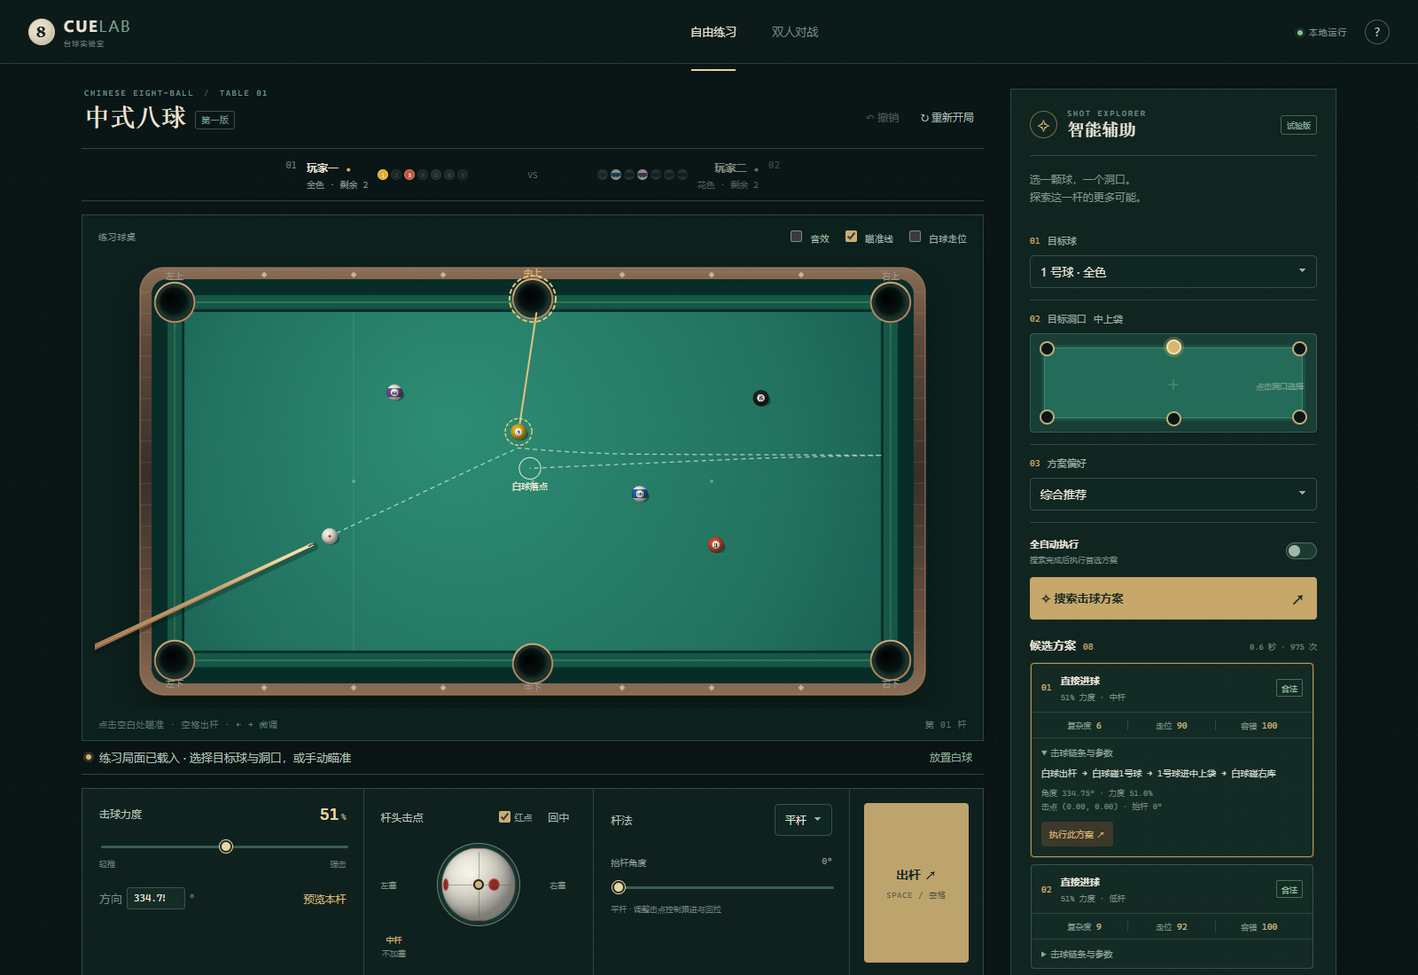
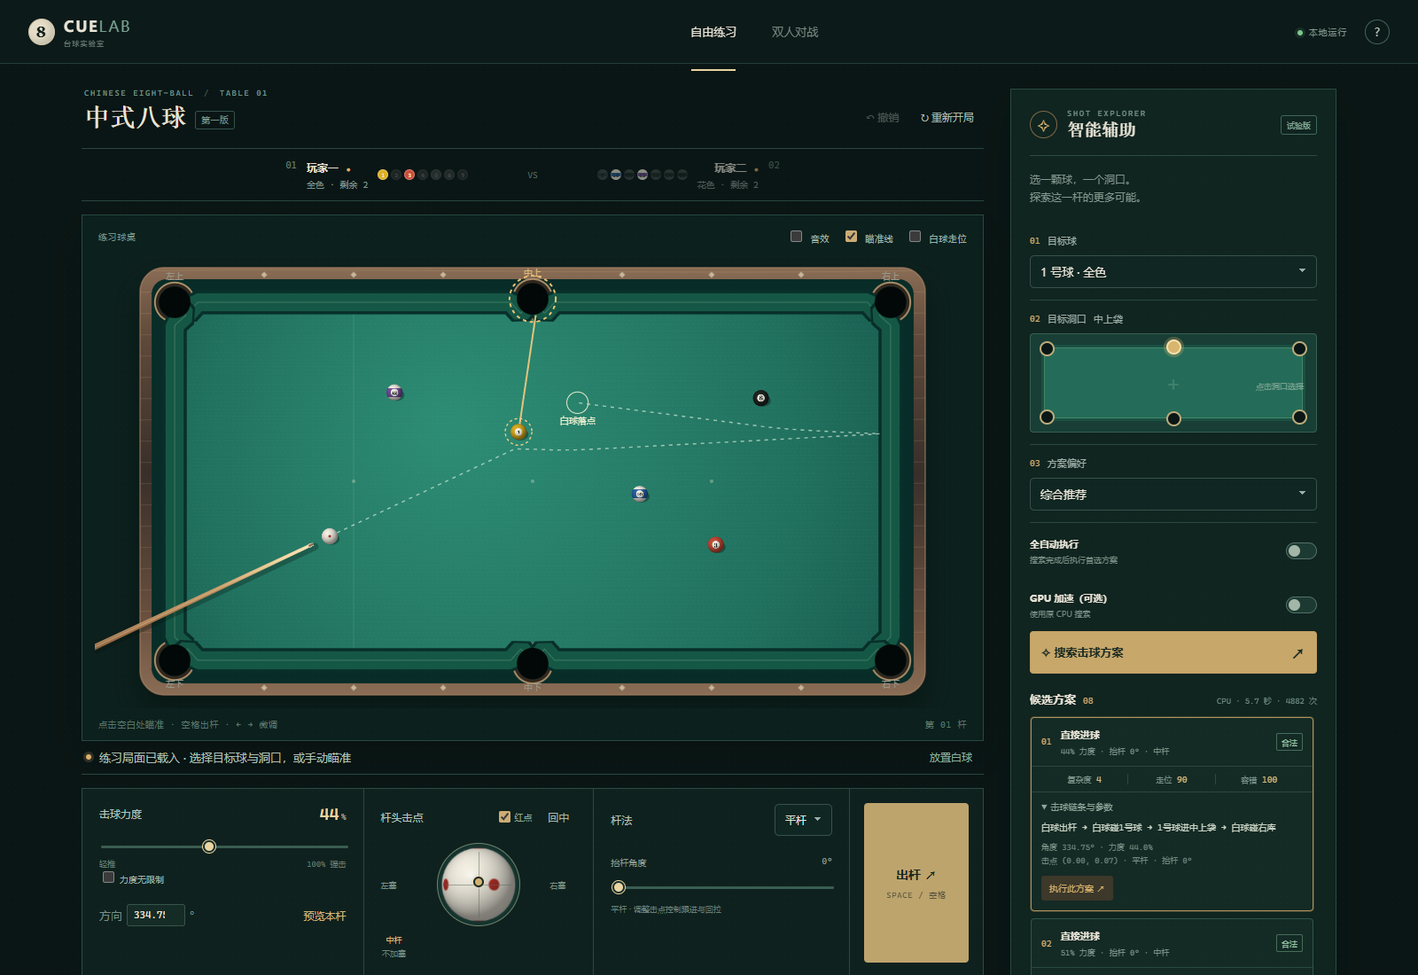
优化库边形状

diff --git a/src/search.ts b/src/search.ts
@@ -20,6 +20,7 @@ const rails = [
   { axis: 'x' as const, value: R, name: '左库' }, { axis: 'x' as const, value: TABLE.w - R, name: '右库' },
   { axis: 'y' as const, value: R, name: '上库' }, { axis: 'y' as const, value: TABLE.h - R, name: '下库' },
 ];
+type Rail = typeof rails[number];
 function reflected(p: Point, rail: typeof rails[number]): Point {
   return rail.axis === 'x' ? { x: rail.value - (p.x - rail.value) / 0.79, y: p.y } : { x: p.x, y: rail.value - (p.y - rail.value) / 0.79 };
 }
@@ -32,6 +33,51 @@ function bounce(from: Point, to: Point, rail: typeof rails[number]): Point | nul
   if (rail.axis === 'x') { if (p.y < 0.115 || p.y > TABLE.h - 0.115) return null; }
   else if (p.x < 0.115 || p.x > TABLE.w - 0.115 || Math.abs(p.x - TABLE.w / 2) < 0.105) return null;
   return p;
+}
+function twoCushionBounces(from: Point, to: Point, route: [Rail, Rail]): [Point, Point] | null {
+  const lengths = { x: TABLE.w - 2 * R, y: TABLE.h - 2 * R };
+  const start = { x: from.x - R, y: from.y - R }, end = { x: to.x - R, y: to.y - R };
+  const tiles = { x: 0, y: 0 }, directions: { x?: number; y?: number } = {};
+  for (const rail of route) {
+    const side = rail.value === R ? -1 : 1;
+    const direction = directions[rail.axis] ?? side;
+    if (directions[rail.axis] !== undefined) {
+      const increasingPhysical = (tiles[rail.axis] & 1) === 0;
+      const expectedSide = (direction > 0) === increasingPhysical ? 1 : -1;
+      if (side !== expectedSide) return null;
+    } else directions[rail.axis] = direction;
+    tiles[rail.axis] += direction;
+  }
+  const image = {
+    x: (tiles.x & 1) === 0 ? tiles.x * lengths.x + end.x : (tiles.x + 1) * lengths.x - end.x,
+    y: (tiles.y & 1) === 0 ? tiles.y * lengths.y + end.y : (tiles.y + 1) * lengths.y - end.y,
+  };
+  const delta = { x: image.x - start.x, y: image.y - start.y };
+  const currentTiles = { x: 0, y: 0 };
+  let previousT = 0;
+  const points: Point[] = [];
+  for (const rail of route) {
+    const direction = directions[rail.axis]!;
+    const plane = direction > 0 ? (currentTiles[rail.axis] + 1) * lengths[rail.axis] : currentTiles[rail.axis] * lengths[rail.axis];
+    const denominator = delta[rail.axis];
+    if (Math.abs(denominator) < 1e-8) return null;
+    const t = (plane - start[rail.axis]) / denominator;
+    if (t <= previousT + 1e-6 || t >= 1) return null;
+    const unfolded = { x: start.x + t * delta.x, y: start.y + t * delta.y };
+    const folded = {
+      x: (currentTiles.x & 1) === 0 ? unfolded.x - currentTiles.x * lengths.x : (currentTiles.x + 1) * lengths.x - unfolded.x,
+      y: (currentTiles.y & 1) === 0 ? unfolded.y - currentTiles.y * lengths.y : (currentTiles.y + 1) * lengths.y - unfolded.y,
+    };
+    const point = { x: folded.x + R, y: folded.y + R };
+    const onCushion = rail.axis === 'x'
+      ? point.y >= 0.115 && point.y <= TABLE.h - 0.115
+      : point.x >= 0.115 && point.x <= TABLE.w - 0.115 && Math.abs(point.x - TABLE.w / 2) >= 0.105;
+    if (!onCushion) return null;
+    points.push(point);
+    currentTiles[rail.axis] += direction;
+    previousT = t;
+  }
+  return [points[0], points[1]];
 }
 export function generateRoutes(req: SearchRequest): Route[] {
   const balls = req.balls, cue = balls.find(b => b.id === 0)!, target = balls.find(b => b.id === req.target)!;
@@ -58,6 +104,31 @@ export function generateRoutes(req: SearchRequest): Route[] {
       const kick = bounce(cue, directContact, rail);
       if (kick && targetClear && segmentClear(balls, cue.x, cue.y, kick.x, kick.y, [0, target.id]) && segmentClear(balls, kick.x, kick.y, directContact.x, directContact.y, [0, target.id]))
         add(cue, kick, `单库解球 · ${rail.name}`, dist(cue, kick) + dist(kick, target) + dist(target, pocket), cutCos(kick, directContact, target, pocket));
+    }
+    for (const firstRail of rails) for (const secondRail of rails) {
+      if (firstRail === secondRail) continue;
+      const routeRails: [Rail, Rail] = [firstRail, secondRail];
+      const banks = twoCushionBounces(target, pocket, routeRails);
+      if (!banks) continue;
+      const [firstBank, secondBank] = banks, contact = ghost(target, firstBank);
+      if (segmentClear(balls, target.x, target.y, firstBank.x, firstBank.y, [0, target.id])
+        && segmentClear(balls, firstBank.x, firstBank.y, secondBank.x, secondBank.y, [0, target.id])
+        && segmentClear(balls, secondBank.x, secondBank.y, pocket.x, pocket.y, [0, target.id])
+        && segmentClear(balls, cue.x, cue.y, contact.x, contact.y, [0, target.id]))
+        add(cue, contact, `双库翻袋 · ${firstRail.name} → ${secondRail.name}`,
+          dist(cue, target) + dist(target, firstBank) + dist(firstBank, secondBank) + dist(secondBank, pocket),
+          cutCos(cue, contact, target, firstBank));
+
+      const cueBanks = twoCushionBounces(cue, directContact, routeRails);
+      if (cueBanks) {
+        const [firstBank, secondBank] = cueBanks;
+        if (segmentClear(balls, cue.x, cue.y, firstBank.x, firstBank.y, [0, target.id])
+          && segmentClear(balls, firstBank.x, firstBank.y, secondBank.x, secondBank.y, [0, target.id])
+          && segmentClear(balls, secondBank.x, secondBank.y, directContact.x, directContact.y, [0, target.id]))
+          add(cue, firstBank, `双库解球 · ${firstRail.name} → ${secondRail.name}`,
+            dist(cue, firstBank) + dist(firstBank, secondBank) + dist(secondBank, directContact) + dist(target, pocket),
+            cutCos(cue, firstBank, target, pocket));
+      }
     }
   }
   // Legal first object strikes the selected target toward the called pocket.

diff --git a/src/physics.ts b/src/physics.ts
@@ -23,27 +23,29 @@ export function rackBalls(): Ball[] {
   }
   return out;
 }
-export interface Cushion { ax: number; ay: number; bx: number; by: number; name: string }
-const W = TABLE.w, H = TABLE.h, corner = 0.078, side = 0.071;
+export interface Cushion { ax: number; ay: number; bx: number; by: number; name: string; contactRadius?: number }
+const W = TABLE.w, H = TABLE.h;
+const cornerMouth = 0.082, sideMouth = 0.078, cornerThroat = 0.066, cornerDepth = 0.015;
+const sideThroat = 0.064, sideDepth = 0.02, jawRadius = TABLE.r * 0.45;
 export const CUSHIONS: Cushion[] = [
-  { ax: corner, ay: 0, bx: W / 2 - side, by: 0, name: '上库' },
-  { ax: W / 2 + side, ay: 0, bx: W - corner, by: 0, name: '上库' },
-  { ax: corner, ay: H, bx: W / 2 - side, by: H, name: '下库' },
-  { ax: W / 2 + side, ay: H, bx: W - corner, by: H, name: '下库' },
-  { ax: 0, ay: corner, bx: 0, by: H - corner, name: '左库' },
-  { ax: W, ay: corner, bx: W, by: H - corner, name: '右库' },
-  { ax: corner, ay: 0, bx: 0.03, by: -0.032, name: '左上袋角' },
-  { ax: 0, ay: corner, bx: -0.032, by: 0.03, name: '左上袋角' },
-  { ax: W - corner, ay: 0, bx: W - 0.03, by: -0.032, name: '右上袋角' },
-  { ax: W, ay: corner, bx: W + 0.032, by: 0.03, name: '右上袋角' },
-  { ax: corner, ay: H, bx: 0.03, by: H + 0.032, name: '左下袋角' },
-  { ax: 0, ay: H - corner, bx: -0.032, by: H - 0.03, name: '左下袋角' },
-  { ax: W - corner, ay: H, bx: W - 0.03, by: H + 0.032, name: '右下袋角' },
-  { ax: W, ay: H - corner, bx: W + 0.032, by: H - 0.03, name: '右下袋角' },
-  { ax: W / 2 - side, ay: 0, bx: W / 2 - 0.047, by: -0.047, name: '中上袋角' },
-  { ax: W / 2 + side, ay: 0, bx: W / 2 + 0.047, by: -0.047, name: '中上袋角' },
-  { ax: W / 2 - side, ay: H, bx: W / 2 - 0.047, by: H + 0.047, name: '中下袋角' },
-  { ax: W / 2 + side, ay: H, bx: W / 2 + 0.047, by: H + 0.047, name: '中下袋角' },
+  { ax: cornerMouth, ay: 0, bx: W / 2 - sideMouth, by: 0, name: '上库' },
+  { ax: W / 2 + sideMouth, ay: 0, bx: W - cornerMouth, by: 0, name: '上库' },
+  { ax: cornerMouth, ay: H, bx: W / 2 - sideMouth, by: H, name: '下库' },
+  { ax: W / 2 + sideMouth, ay: H, bx: W - cornerMouth, by: H, name: '下库' },
+  { ax: 0, ay: cornerMouth, bx: 0, by: H - cornerMouth, name: '左库' },
+  { ax: W, ay: cornerMouth, bx: W, by: H - cornerMouth, name: '右库' },
+  { ax: cornerMouth, ay: 0, bx: cornerThroat, by: cornerDepth, name: '左上袋角', contactRadius: jawRadius },
+  { ax: 0, ay: cornerMouth, bx: cornerDepth, by: cornerThroat, name: '左上袋角', contactRadius: jawRadius },
+  { ax: W - cornerMouth, ay: 0, bx: W - cornerThroat, by: cornerDepth, name: '右上袋角', contactRadius: jawRadius },
+  { ax: W, ay: cornerMouth, bx: W - cornerDepth, by: cornerThroat, name: '右上袋角', contactRadius: jawRadius },
+  { ax: cornerMouth, ay: H, bx: cornerThroat, by: H - cornerDepth, name: '左下袋角', contactRadius: jawRadius },
+  { ax: 0, ay: H - cornerMouth, bx: cornerDepth, by: H - cornerThroat, name: '左下袋角', contactRadius: jawRadius },
+  { ax: W - cornerMouth, ay: H, bx: W - cornerThroat, by: H - cornerDepth, name: '右下袋角', contactRadius: jawRadius },
+  { ax: W, ay: H - cornerMouth, bx: W - cornerDepth, by: H - cornerThroat, name: '右下袋角', contactRadius: jawRadius },
+  { ax: W / 2 - sideMouth, ay: 0, bx: W / 2 - sideThroat, by: sideDepth, name: '中上袋角', contactRadius: jawRadius },
+  { ax: W / 2 + sideMouth, ay: 0, bx: W / 2 + sideThroat, by: sideDepth, name: '中上袋角', contactRadius: jawRadius },
+  { ax: W / 2 - sideMouth, ay: H, bx: W / 2 - sideThroat, by: H - sideDepth, name: '中下袋角', contactRadius: jawRadius },
+  { ax: W / 2 + sideMouth, ay: H, bx: W / 2 + sideThroat, by: H - sideDepth, name: '中下袋角', contactRadius: jawRadius },
 ];
 export function legalPlacement(balls: Ball[], id: number, x: number, y: number, behindLine = false): boolean {
   const R = TABLE.r;
@@ -89,7 +91,7 @@ function sphereTime(dx: number, dy: number, dz: number, vx: number, vy: number, 
 }
 
 function cushionTime(b: Ball, seg: Cushion, duration: number): { time: number; nx: number; ny: number } | null {
-  const R = TABLE.r, endX = b.x + b.vx * duration, endY = b.y + b.vy * duration;
+  const R = seg.contactRadius ?? TABLE.r, endX = b.x + b.vx * duration, endY = b.y + b.vy * duration;
   if (Math.min(b.x, endX) > Math.max(seg.ax, seg.bx) + R || Math.max(b.x, endX) < Math.min(seg.ax, seg.bx) - R
     || Math.min(b.y, endY) > Math.max(seg.ay, seg.by) + R || Math.max(b.y, endY) < Math.min(seg.ay, seg.by) - R) return null;
   const sx = seg.bx - seg.ax, sy = seg.by - seg.ay, length = Math.hypot(sx, sy), tx = sx / length, ty = sy / length;

diff --git a/tests/search.test.ts b/tests/search.test.ts
@@ -3,7 +3,7 @@ import test from 'node:test';
 import { ball, simulate, TABLE } from '../src/physics';
 import { adjudicate, freshRules } from '../src/rules';
 import { scene } from '../src/scenes';
-import { coarseShots, planScore, searchPlans, shotKey, type Route } from '../src/search';
+import { coarseShots, generateRoutes, planScore, searchPlans, shotKey, type Route } from '../src/search';
 
 for (const name of ['cut', 'bank', 'kick', 'combo', 'black'] as const) test(`search finds legal ${name} plans for the exact called pocket`, () => {
   const state = scene(name, 'practice'), request = { id: 1, ...state, sort: 'balanced' as const };
@@ -58,9 +58,9 @@ for (const name of ['jump', 'masse'] as const) test(`search automatically choose
     const cue = state.balls.find(b => b.id === 0)!;
     assert.ok(special.some(p => {
       const first = p.outcome.events.find(e => e.type === 'contact' && (e.ball === 0 || e.other === 0))!;
+      const firstRail = p.outcome.events.find(e => e.type === 'rail' && e.ball === 0)?.time ?? Infinity;
       return p.shot.elevation >= 36 && Math.abs(p.shot.tipX) > 0.2
-        && !p.outcome.events.some(e => e.type === 'rail' && e.ball === 0 && e.time < first.time)
-        && p.outcome.trails[0].some(t => t.t < first.time
+        && p.outcome.trails[0].some(t => t.t < Math.min(first.time, firstRail)
           && Math.abs((t.x - cue.x) * Math.sin(p.shot.angle) - (t.y - cue.y) * Math.cos(p.shot.angle)) > TABLE.r);
     }), 'elevated off-centre shot produces a curved approach before first contact');
   }
@@ -76,6 +76,13 @@ test('ranking preferences change the recommended tradeoff', () => {
   assert.ok(planScore(easy, 'simple') > planScore(position, 'simple'));
   assert.ok(planScore(position, 'position') > planScore(easy, 'position'));
   assert.ok(planScore(robust, 'robust') > planScore(position, 'robust'));
+});
+
+test('route generation includes clear two-cushion target banks and cue kicks', () => {
+  const state = scene('bank', 'practice');
+  const routes = generateRoutes({ id: 21, ...state, sort: 'balanced' });
+  assert.ok(routes.some(route => route.label.startsWith('双库翻袋 · ')));
+  assert.ok(routes.some(route => route.label.startsWith('双库解球 · ')));
 });
 
 test('fancy ranking prefers complex techniques, unusual routes and shots affecting more balls', () => {

diff --git a/tests/physics.test.ts b/tests/physics.test.ts
@@ -1,6 +1,6 @@
 import assert from 'node:assert/strict';
 import test from 'node:test';
-import { ball, legalPlacement, PhysicsWorld, POCKETS, rackBalls, simulate, TABLE } from '../src/physics';
+import { ball, CUSHIONS, legalPlacement, PhysicsWorld, POCKETS, rackBalls, simulate, TABLE } from '../src/physics';
 import type { Shot } from '../src/types';
 const base: Shot = { angle: 0, power: 35, tipX: 0, tipY: 0, elevation: 0, kind: 'normal' };
 
@@ -142,8 +142,19 @@ test('a shot wide of a side pocket rebounds instead of being captured or leaving
   assert.ok(sim.settled);
 });
 
+test('pocket mouths flare wider at the rail and join the cushion jaws continuously', () => {
+  const middleLeft = CUSHIONS[14], middleRight = CUSHIONS[15];
+  assert.equal(CUSHIONS[0].bx, middleLeft.ax);
+  assert.equal(CUSHIONS[1].ax, middleRight.ax);
+  assert.ok(middleRight.ax - middleLeft.ax > middleRight.bx - middleLeft.bx);
+  assert.ok(Math.hypot(middleLeft.bx - POCKETS[1].x, middleLeft.by - POCKETS[1].y) > TABLE.pocketR);
+  assert.equal(CUSHIONS[0].ax, CUSHIONS[6].ax);
+  assert.equal(CUSHIONS[4].ay, CUSHIONS[7].ay);
+  assert.ok(Math.hypot(CUSHIONS[6].bx, CUSHIONS[6].by) > TABLE.pocketR);
+});
+
 test('a side pocket jaw deflects a glancing shot before it enters the pocket', () => {
-  const sim = simulate([ball(0, 1.18, 0.18)], { ...base, angle: -75 * Math.PI / 180, power: 40 });
+  const sim = simulate([ball(0, 1.12, 0.12)], { ...base, angle: -0.45, power: 40 });
   const jaw = sim.events.find(e => e.type === 'rail' && e.rail === '中上袋角');
   const pocket = sim.events.find(e => e.type === 'pocket' && e.pocket === 1);
   assert.ok(jaw && pocket && jaw.time < pocket.time);

diff --git a/docs/search-ranking.md b/docs/search-ranking.md
@@ -6,27 +6,28 @@
 
 ## 数据流
 
-1. `generateRoutes(req)`（`src/search.ts:36`）生成几何路线：直接进球、单库翻袋、单库解球和简单组合球。合法首碰限制来自 `legalFirstIds`。路线生成只提供搜索入口，不代表方案已成功。
-2. `coarseShots(route, options)`（`src/search.ts:116`）为路线生成方向、力度、击点、杆法和抬杆角度的粗搜参数。开启力度无限制时会附加更高力度样本。
-3. `search.worker.ts`（`src/search.worker.ts:16`）可选地先将这些样本交给 WebGPU 粗筛。GPU 返回的路线和击球样本仍交由 `searchPlans` 的 CPU 物理引擎验证；GPU 没有替代合法性判定、精搜或最终排序。无合法结果时 Worker 会再跑完整 CPU 搜索。
-4. `searchPlans(req, onUpdate, preparedGrids)`（`src/search.ts:177`）逐杆调用内部 `tryShot(route, input)`（`:188`）。每次以 `PhysicsWorld` 模拟完整击球，并检查首碰、目标球进指定袋、球停止和规则合法性。只有 `success(req, outcome)`（`:113`）通过的候选才创建 `Plan`。
-5. 合法候选计算复杂度、走位和初始偏好分数，进入候选集；每种杆法的最佳参数种子再做局部细化。候选完成后先做多样性筛选，再对 finalists 做容错扰动试算并重算分数，最终最多展示 8 个方案。
+1. `generateRoutes(req)`（`src/search.ts:82`）生成几何路线：直接进球、单库和双库翻袋、单库和双库解球，以及简单组合球。合法首碰限制来自 `legalFirstIds`。路线生成只提供搜索入口，不代表方案已成功。
+2. `twoCushionBounces(from, to, route)`（`:37`）用展开桌面的镜像坐标求指定两库的交点；`generateRoutes` 逐段做球体遮挡检查后才保留双库候选。真实反弹不采用镜像近似，仍由物理模拟确定。
+3. `coarseShots(route, options)`（`src/search.ts:207`）为路线生成方向、力度、击点、杆法和抬杆角度的粗搜参数。开启力度无限制时会附加更高力度样本。
+4. `search.worker.ts`（`src/search.worker.ts:16`）可选地先将这些样本交给 WebGPU 粗筛。GPU 返回的路线和击球样本仍交由 `searchPlans` 的 CPU 物理引擎验证；GPU 没有替代合法性判定、精搜或最终排序。无合法结果时 Worker 会再跑完整 CPU 搜索。
+5. `searchPlans(req, onUpdate, preparedGrids)`（`src/search.ts:248`）逐杆调用内部 `tryShot(route, input)`（`:259`）。每次以 `PhysicsWorld` 模拟完整击球，并检查首碰、目标球进指定袋、球停止和规则合法性。只有 `success(req, outcome)`（`:184`）通过的候选才创建 `Plan`。
+6. 合法候选计算复杂度、走位和初始偏好分数，进入候选集；每种杆法的最佳参数种子再做局部细化。候选完成后先做多样性筛选，再对 finalists 做容错扰动试算并重算分数，最终最多展示 8 个方案。
 
 ## 成功与复杂度
 
 `success(req, outcome)` 要求目标球进入用户指定的袋、模拟已停止、规则检查无犯规，并且不允许非目标黑八意外进袋或离台。搜索结果的合法性不由评分权重放宽。
 
-`tryShot` 在 `src/search.ts:221-232` 从真实模拟事件计算复杂度：
+`tryShot` 在 `src/search.ts:292-303` 从真实模拟事件计算复杂度：
 
 - 基础路线：直接进球 4、翻袋 32、解球 38、组合球 43。
 - 跳球增加 24，扎杆增加 34；抬杆角度、碰库与多余碰球、偏心击点和高力度继续增加复杂度。
 - 结果限制在 0–100。这个数值是相对排序指标，不是物理难度概率。
 
-走位分数由 `positionScore(balls, rules, target)`（`src/search.ts:73`）几何评估下一目标球的直线路径、切球角度、距离、遮挡、白球贴库和可选进球路线数。它不会搜索下一杆。对抗模式下若本杆换人，搜索会反向评估对手的走位机会（`tryShot` 中 `:233-238`）。
+走位分数由 `positionScore(balls, rules, target)`（`src/search.ts:144`）几何评估下一目标球的直线路径、切球角度、距离、遮挡、白球贴库和可选进球路线数。它不会搜索下一杆。对抗模式下若本杆换人，搜索会反向评估对手的走位机会（`tryShot` 中 `:307-309`）。
 
 ## 偏好评分
 
-统一入口是 `planScore(plan, sort)`（`src/search.ts:89`），分数越高越优先。合法性筛选始终先于评分。
+统一入口是 `planScore(plan, sort)`（`src/search.ts:160`），分数越高越优先。合法性筛选始终先于评分。
 
 | 偏好 | 评分 |
 | --- | --- |
@@ -38,13 +39,13 @@
 
 `fancy` 的附加项从 `Plan.outcome.events` 计算：碰撞、碰库、落袋或离台涉及的不同球越多，影响球得分越高；多次碰球和碰库会提高事件复杂度；扎杆、跳球、抬杆角度和偏心击点会提高杆法分；组合球、翻袋和解球路线会获得路线分。各子项封顶 100。事件复杂度与路线标签取较高值，避免同一条路线重复叠加奖励。
 
-偏好类型及 UI 选项分别位于 `src/types.ts:37` 和 `src/main.ts` 的 `#sort` 下拉框。更改偏好会清掉现有结果，提示重新搜索（`src/main.ts` 中 `#sort.onchange`）。
+偏好类型及 UI 选项分别位于 `src/types.ts:37` 和 `src/main.ts:39` 的 `#sort` 下拉框。更改偏好会清掉现有结果，提示重新搜索（`src/main.ts` 中 `#sort.onchange`）。
 
 ## 参数缓存与 seed 筛选
 
-`shotKey(shot)`（`src/search.ts:130`）把杆法、角度、力度、击点、抬杆角度和无限力度模式编码为稳定键。内部 `tryShot` 还把 `route.contact` 加入键（`:188-192`），避免不同接触点误用同一次模拟结果。`seen` 缓存参数的 loss，避免相同参数和接触点重复跑物理模拟；命中缓存时不会再次把同一结果加入候选列表。
+`shotKey(shot)`（`src/search.ts:201`）把杆法、角度、力度、击点、抬杆角度和无限力度模式编码为稳定键。内部 `tryShot` 还把 `route.contact` 加入键（`:259-262`），避免不同接触点误用同一次模拟结果。`seen` 缓存参数的 loss，避免相同参数和接触点重复跑物理模拟；命中缓存时不会再次把同一结果加入候选列表。
 
-粗搜时，所有试算（包括未成功方案）都会竞争每种杆法最多 6 个局部细化 seed（`:245-252`）：
+粗搜时，所有试算（包括未成功方案）都会竞争每种杆法最多 6 个局部细化 seed（`:316-323`）：
 
 - 成功方案的 loss 是负值，按初始偏好分数决定优先级。
 - 未成功方案按是否接近目标接触、目标袋，以及是否已停止等信息计算正 loss；这是为了细化“差一点成功”的方案。
@@ -54,13 +55,13 @@ seed 的“去重”是精搜预算控制，不等同于最终 Plan 去重。未
 
 ## 最终多样性与截取
 
-完成局部细化后，`diverse(a, b)`（`src/search.ts:118` 附近）比较候选方案：不同杆法、抬杆角度相差超过 12°、路线标签不同、白球最终位置相差超过 0.17 米，或任一方向击点差超过 0.45，视为足够不同。否则分高的方案占位，近似重复路线会跳过。
+完成局部细化后，`diverse(a, b)`（`src/search.ts:189`）比较候选方案：不同杆法、抬杆角度相差超过 12°、路线标签不同、白球最终位置相差超过 0.17 米，或任一方向击点差超过 0.45，视为足够不同。否则分高的方案占位，近似重复路线会跳过。
 
-finalists 最多先取 12 个：先强制保留每种已找到杆法的最高分代表，再按分数从高到低补入与已选方案足够不同的候选（`searchPlans` 中 `:271-282`）。这一阶段发生在容错计算前，分数还没有最终 robustness。
+finalists 最多先取 12 个：先强制保留每种已找到杆法的最高分代表，再按分数从高到低补入与已选方案足够不同的候选（`searchPlans` 中 `:343-354`）。这一阶段发生在容错计算前，分数还没有最终 robustness。
 
-随后对每个 finalist 做 12 次参数扰动：角度 4 次、力度 2 次、左右与高低击点各 2 次、抬杆角度 2 次（`:283-303`）。扰动后仍成功的次数比例作为 `robustness`。之后再次调用 `planScore` 得到最终分数。
+随后对每个 finalist 做 12 次参数扰动：角度 4 次、力度 2 次、左右与高低击点各 2 次、抬杆角度 2 次（`:356-376`）。扰动后仍成功的次数比例作为 `robustness`。之后再次调用 `planScore` 得到最终分数。
 
-最终最多返回 8 项（`:305-308`）：按最终分数排列；先确保输出中每种成功杆法有一个代表，再用高分方案填满剩余名额，最后将结果整体按分数降序排列。若某杆法没有合法结果，不会为它制造占位方案。
+最终最多返回 8 项（`:376-378`）：按最终分数排列；先确保输出中每种成功杆法有一个代表，再用高分方案填满剩余名额，最后将结果整体按分数降序排列。若某杆法没有合法结果，不会为它制造占位方案。
 
 ## 改动时的维护清单
 
@@ -71,4 +72,4 @@ finalists 最多先取 12 个：先强制保留每种已找到杆法的最高分
 - 新增或更名 `SortMode`：同时更新 `src/types.ts`、`src/main.ts` 下拉框、本文评分表和 `tests/search.test.ts` 排序测试。
 - 修改 Worker/GPU 预筛：说明 GPU 粗筛和 CPU 精确验证的边界；保持合法性由 CPU 结果确认。
 
-主要回归测试位于 `tests/search.test.ts`：合法搜索与规则检查、偏好权重排序、最花哨评分、力度扩展及输出方案复算。可运行 `npm test` 和 `npm run build`。
+主要回归测试位于 `tests/search.test.ts`：合法搜索与规则检查、双库翻袋/解球路线生成、偏好权重排序、最花哨评分、力度扩展及输出方案复算。可运行 `npm test` 和 `npm run build`。
